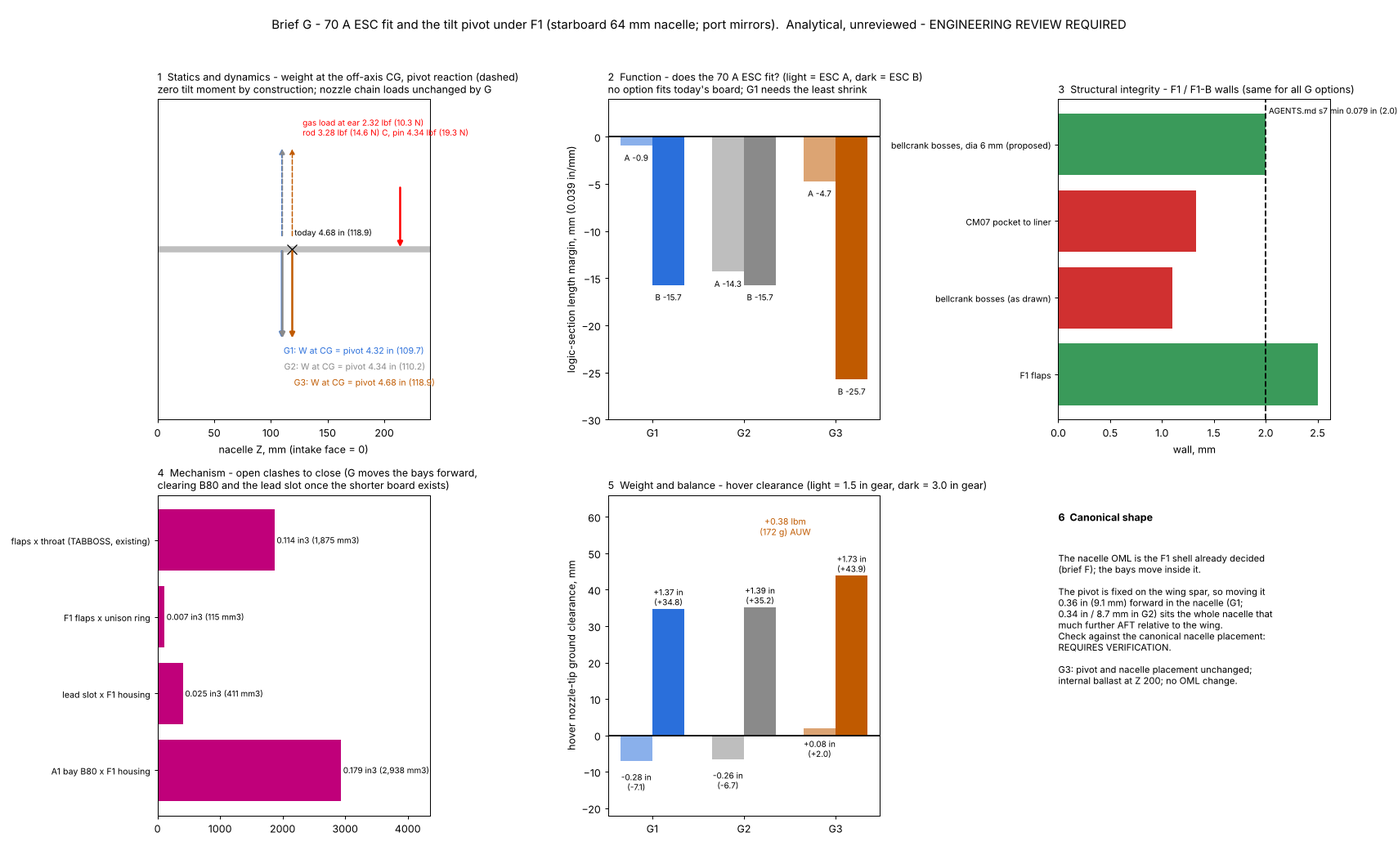
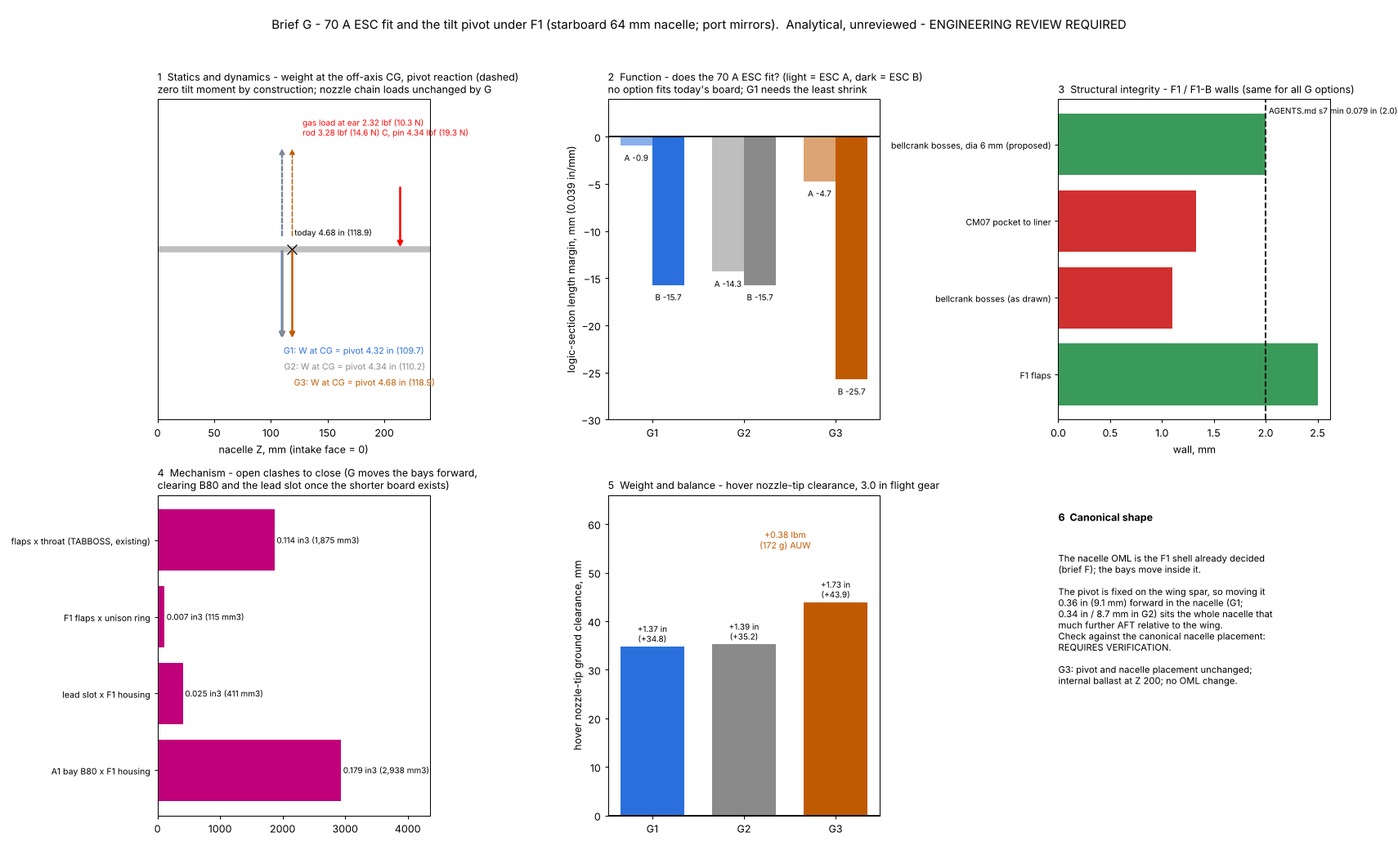
Retire the 1.5 in landing gear; cite the 3.0 in flight gear only
Owner direction 2026-11-22: verify every reference to the 1.5 in gear is
retired and cite the current 3.0 in configuration only. The 3.0 in gear
has been the flight article since 2026-09-06 (LG-31; plan
2026-09-06-001 KTD1; LANDING_GEAR_ANALYSIS sec. 4.8), but live code still
labelled 1.5 in "ACTIVE default".

Live code -> 3.0 in only:
- nacelle_mass_cg.GROUND_PLANES holds one plane, GEAR_3IN (hull_datums
  GROUND_Z_3IN); nacelle_mass_cg_64 drops clear_1p5in;
  nozzle64_hinge_root_brief drops clear_1p5_*; brief_g_esc_pivot_fig
  panel 5 shows 3.0 in only. Brief F and G figures regenerated.
- middle_layout_fit checks against lg_r6_3_0in_hull_legs.stl.
- da Vinci Jr proto batch J slices the 3.0 in leg (assembled corner at
  0.80 to fit the 150 mm bed; leg frames at 1.0).
- sls_print_orientation keeps the retired 1.5 in leg frame entry (the STL
  still exists) relabelled RETIRED, not a print article; output unchanged.

Docs: Theme N briefs F/G/H, NACELLE_64MM_VERIFICATION and the
wings-nacelles WBS cite 3.0 in only; LANDING_GEAR_ANALYSIS's STL table
marks the 1.5 in meshes RETIRED and the 3.0 in as the flight article.
Historical records (dated WBS entries, pod SCAD and hollow-tool comments)
are labelled retired; dated plans and CLAUDE-MEMORY keep their history.

New finding, recorded as WBS LG-RETIRE-1P5-REFS: against the real 3.0 in
legs, middle_layout_fit shows harness envelopes fouling the legs (ESC E1
2,757, E3 662, E34 1,565, tilt feed T1 971 mm3, each side) that the
[…]

Changed region(s): [[0.4029, 0.6493, 0.6199, 0.9894], [0.5579, 0.5565, 0.7129, 0.5874], [0.5269, 0.6184, 0.5889, 0.6493]]

diff --git a/tools/brief_g_esc_pivot_fig.py b/tools/brief_g_esc_pivot_fig.py
@@ -66,7 +66,7 @@ DATA: dict[str, Any] = {
         ),
     },
     "tip_open_f1": 221.82,  # open-nozzle tip station, F1 (arm1 + cg1)
-    "clr_ref": dict(pivot=111.68, c15=-5.19, c30=36.71),
+    "clr_ref": dict(pivot=111.68, c30=36.71),  # 3.0 in flight gear (hull_datums GROUND_Z_3IN)
     "walls": [
         ("F1 flaps", 2.5),
         ("bellcrank bosses (as drawn)", 1.1),
@@ -84,9 +84,10 @@ DATA: dict[str, Any] = {
 
 
 def clearance(pivot):
-    """Hover tip clearance (mm) for both gear heights; the arm grows 1:1 as the pivot moves fwd."""
+    """Hover tip clearance (mm) on the 3.0 in flight gear; the arm grows 1:1 as the pivot moves
+    forward."""
     d = DATA["clr_ref"]["pivot"] - pivot
-    return DATA["clr_ref"]["c15"] - d, DATA["clr_ref"]["c30"] - d
+    return DATA["clr_ref"]["c30"] - d
 
 
 def figure(out: Path) -> None:
@@ -188,18 +189,9 @@ def figure(out: Path) -> None:
     # 5 Weight and balance: pivot, ballast, hover clearance
     a = ax[1, 1]
     for i, n in enumerate(names):
-        c15, c30 = clearance(o[n]["pivot"])
-        a.bar(i - w / 2, c15, w, color=col[n], alpha=0.55)
-        a.bar(i + w / 2, c30, w, color=col[n])
-        a.text(
-            i - w / 2,
-            c15 - 3,
-            f"{c15 / IN:+.2f} in\n({c15:+.1f})",
-            ha="center",
-            fontsize=8,
-            va="top",
-        )
-        a.text(i + w / 2, c30 + 1, f"{c30 / IN:+.2f} in\n({c30:+.1f})", ha="center", fontsize=8)
+        c30 = clearance(o[n]["pivot"])
+        a.bar(i, c30, 2 * w, color=col[n])
+        a.text(i, c30 + 1, f"{c30 / IN:+.2f} in\n({c30:+.1f})", ha="center", fontsize=8)
         if o[n]["ballast"]:
             a.text(
                 i - 0.55,
@@ -211,10 +203,10 @@ def figure(out: Path) -> None:
             )
     a.axhline(0, color="k")
     a.set_xticks(range(3), names)
-    a.set_ylim(-22, 66)
+    a.set_ylim(0, 66)
     a.set_ylabel("hover nozzle-tip ground clearance, mm")
     a.set_title(
-        "5  Weight and balance - hover clearance (light = 1.5 in gear, dark = 3.0 in gear)",
+        "5  Weight and balance - hover nozzle-tip clearance, 3.0 in flight gear",
         loc="left",
         fontsize=10,
     )

diff --git a/tools/nozzle64_hinge_root_brief.py b/tools/nozzle64_hinge_root_brief.py
@@ -424,8 +424,7 @@ def compute() -> dict[str, Any]:
     base = nac64.base
     arm0 = res["tip_z_open"]["F0"] - Z0
     arm1 = res["tip_z_open"]["F1"] - Z1
-    g15 = base.GROUND_PLANES["1.5 in gear (ACTIVE default)"]
-    g30 = base.GROUND_PLANES["3.0 in gear (kept, not wired in)"]
+    g30 = base.GROUND_PLANES[base.GEAR_3IN]  # 3.0 in flight gear, the only configuration
     res["weight"] = {
         "rows": deltas,
         "M0_g": M0,
@@ -438,8 +437,6 @@ def compute() -> dict[str, Any]:
         "auw_delta_g": 2 * dM,
         "arm0": arm0,
         "arm1": arm1,
-        "clear_1p5_F0": base.WING_SPAR_HULL_Z - arm0 - g15,
-        "clear_1p5_F1": base.WING_SPAR_HULL_Z - arm1 - g15,
         "clear_3_F0": base.WING_SPAR_HULL_Z - arm0 - g30,
         "clear_3_F1": base.WING_SPAR_HULL_Z - arm1 - g30,
         "ballast_to_hold_pivot_g_at_z200": M1 * (Z0 - Z1) / (200.0 - Z0),
@@ -727,8 +724,7 @@ def figure(res: dict[str, Any]) -> Path:
         f"mm); holding it "
         f"needs {wb['ballast_to_hold_pivot_g_at_z200']:.0f} g ballast at Z 200 per nacelle\n"
         f"hover reach pivot -> open tip {wb['arm0']:.1f} -> {wb['arm1']:.1f} mm; clearance, "
-        f"1.5 in gear "
-        f"{i2(wb['clear_1p5_F0']):+.2f} -> {i2(wb['clear_1p5_F1']):+.2f} in, 3.0 in gear "
+        f"3.0 in gear "
         f"{i2(wb['clear_3_F0']):+.2f} -> {i2(wb['clear_3_F1']):+.2f} in",
         transform=ax.transAxes,
         fontsize=7,
@@ -864,8 +860,8 @@ def main(argv: list[str] | None = None) -> int:
     print(
         f"mass {w['M0_g']:.1f} -> {w['M1_g']:.1f} g, CG {w['cg0']:.2f} -> {w['cg1']:.2f}, "
         f"AUW {w['auw_delta_g']:+.0f} g,"
-        f" arm {w['arm0']:.1f} -> {w['arm1']:.1f}, clear 1.5 {w['clear_1p5_F0']:.1f} -> "
-        f"{w['clear_1p5_F1']:.1f} mm,"
+        f" arm {w['arm0']:.1f} -> {w['arm1']:.1f}, clear 3.0 in gear {w['clear_3_F0']:.1f} -> "
+        f"{w['clear_3_F1']:.1f} mm,"
         f" ballast {w['ballast_to_hold_pivot_g_at_z200']:.0f} g"
     )
     for r in w["rows"]:

diff --git a/tools/nacelle_mass_cg_64.py b/tools/nacelle_mass_cg_64.py
@@ -223,10 +223,7 @@ def roll_up(pod_stl: Path) -> dict:
     tip = base.WING_SPAR_HULL_Z - arm
     return {"rows": rows, "total_g": total, "cg_z": cg,
             "pivot_z": round(cg, 1), "arm": arm, "tip_hull_z": tip,
-            "clear_3in": tip - base.GROUND_PLANES[
-                "3.0 in gear (kept, not wired in)"],
-            "clear_1p5in": tip - base.GROUND_PLANES[
-                "1.5 in gear (ACTIVE default)"]}
+            "clear_3in": tip - base.GROUND_PLANES[base.GEAR_3IN]}
 
 
 def main(argv: list[str] | None = None) -> int:
@@ -259,9 +256,7 @@ def main(argv: list[str] | None = None) -> int:
           f"{res['cg_z']:.2f}, residual {delta:+.2f} mm -> {state}")
     print(f"Hover: arm {res['arm']:.1f} mm, nozzle tip at hull Z "
           f"{res['tip_hull_z']:+.1f} mm; clearance 3.0 in gear "
-          f"{res['clear_3in'] / 25.4:+.2f} in ({res['clear_3in']:+.1f} mm), "
-          f"1.5 in gear {res['clear_1p5in'] / 25.4:+.2f} in "
-          f"({res['clear_1p5in']:+.1f} mm)")
+          f"{res['clear_3in'] / 25.4:+.2f} in ({res['clear_3in']:+.1f} mm)")
     return 0 if res["clear_3in"] > 0 else 2
 
 

diff --git a/airframe/gcode/davinci-jr-proto/cura/slice_all_batches_cura.py b/airframe/gcode/davinci-jr-proto/cura/slice_all_batches_cura.py
@@ -132,10 +132,14 @@ PARTS = [
      "fuselage/wing_root_flange_port.stl", 1.0, 15, False, ""),
     ("J", "wing_root_flange_stbd",
      "fuselage/wing_root_flange_stbd.stl", 1.0, 15, False, ""),
-    ("J", "lg_r6_1_5in_leg_assembled",
-     "fuselage/landing-gear/lg_r6_1_5in_leg_assembled.stl", 1.0, 25, False, ""),
-    ("J", "lg_r6_1_5in_leg_frame",
-     "fuselage/landing-gear/lg_r6_1_5in_leg_frame.stl", 1.0, 25, False, ""),
+    # 3.0 in flight gear only (the 1.5 in variant is retired, LG-31).  The assembled corner is
+    # 185 mm long, so it prints at 0.80 on the 150 mm bed; the leg frames fit at 1.0.
+    ("J", "lg_r6_3_0in_leg_assembled",
+     "fuselage/landing-gear/lg_r6_3_0in_leg_assembled.stl", 0.80, 25, False, ""),
+    ("J", "lg_r6_3_0in_leg_frame",
+     "fuselage/landing-gear/lg_r6_3_0in_leg_frame.stl", 1.0, 25, False, ""),
+    ("J", "lg_r6_3_0in_leg_frame_fore",
+     "fuselage/landing-gear/lg_r6_3_0in_leg_frame_fore.stl", 1.0, 25, False, ""),
     ("J", "lg_r6_common_bay",
      "fuselage/landing-gear/lg_r6_common_bay.stl", 1.0, 25, False, ""),
     ("J", "lg_r6_common_foot",

diff --git a/tools/nacelle_mass_cg.py b/tools/nacelle_mass_cg.py
@@ -216,11 +216,12 @@ def tip_reach(flap_len: float) -> float:
 sys.path.insert(0, str(Path(__file__).resolve().parent))
 import hull_datums as hd  # noqa: E402  aircraft datum R2 (2026-10-19)
 WING_SPAR_HULL_Z = hd.SPAR_Z  # [mm] built spar height (R1 66.851)
-# Ground plane per gear variant, aircraft datum: the 3.0 in flight gear IS the
-# datum ground (Z 0); the retired 1.5 in gear stands the belly 41.9 mm lower.
-# (Keys kept for the scripts that index them.)
-GROUND_PLANES = {"1.5 in gear (ACTIVE default)": hd.BELLY_Z - 38.1,
-                 "3.0 in gear (kept, not wired in)": hd.GROUND_Z_3IN}
+# Ground plane, aircraft datum: the 3.0 in flight gear IS the datum ground (Z 0)
+# (tools/hull_datums.py GROUND_Z_3IN; docs/LANDING_GEAR_ANALYSIS.md sec. 4.8 retired the
+# compact variant from the flight article).  The 3.0 in gear is the only configuration
+# carried; the retired variant is not evaluated.
+GEAR_3IN = "3.0 in gear (flight article)"
+GROUND_PLANES = {GEAR_3IN: hd.GROUND_Z_3IN}
 
 #: Deleted at Rev T4, kept so the delta is legible rather than implied.
 DELETED = [

diff --git a/tools/nacelle_hollow_profile.py b/tools/nacelle_hollow_profile.py
@@ -27,7 +27,9 @@ ground clearance."
 The tilt pivot sits at the rotating assembly's CG, so removing mass FORWARD of
 the CG moves the pivot AFT, which shortens the pivot-to-nozzle-tip arm one for
 one and lifts the nozzle in hover.  With the pod solid, that tip sits 10.5 mm
-BELOW the ground plane on the active 1.5 in gear.
+BELOW the ground plane on the then-active 1.5 in gear (HISTORY, 2026-08-31: that gear
+was retired 2026-09-06, LG-31 / LANDING_GEAR_ANALYSIS.md sec. 4.8; the 3.0 in flight gear is the
+only configuration, and the clearances below are the historical 1.5 in figures).
 
 Measured, the trade is:
 

diff --git a/tools/middle_layout_fit.py b/tools/middle_layout_fit.py
@@ -75,7 +75,7 @@ MIDDLE_SHELL = os.path.join(REPO, "airframe", "stls", "fuselage", "middle_shell2
 FLANGE_PORT = os.path.join(REPO, "airframe", "stls", "fuselage", "wing_root_flange_port.stl")
 FLANGE_STBD = os.path.join(REPO, "airframe", "stls", "fuselage", "wing_root_flange_stbd.stl")
 LG_LEGS = os.path.join(
-    REPO, "airframe", "stls", "fuselage", "landing-gear", "lg_r6_1_5in_hull_legs.stl"
+    REPO, "airframe", "stls", "fuselage", "landing-gear", "lg_r6_3_0in_hull_legs.stl"
 )
 STATIC_GAP = 2.0  # static part against the fixed hull (cargo_layout_fit convention)
 

diff --git a/tools/sls_print_orientation.py b/tools/sls_print_orientation.py
@@ -332,7 +332,7 @@ ORIENT = {
         'H'),
     'fuselage/landing-gear/lg_r6_1_5in_leg_frame.stl': (
         'Z', 'PA CF',
-        'bench/handling article',
+        'RETIRED 1.5 in variant (LG-31) -- not a flight or print article',
         'R-PLATE',
         'H'),
     'fuselage/landing-gear/lg_r6_common_foot.stl': (

diff --git a/docs/THEME_N_DECISION_BRIEFS.md b/docs/THEME_N_DECISION_BRIEFS.md
@@ -264,7 +264,7 @@ plain liner tube (Z 136–196 mm, no structure) is trimmed to the housing face.
 | **Function** | Panel 2. Exit 75 % / 105 % on the flow surface (met, load study rev 2). Convergence half-angle 12.9° closed. | Exit 75 % / 105 % met by construction; gentler convergence (9.9° closed). The motor-2 can tail (Z 176.9 mm) sits 0.07 in (1.6 mm) aft of the hinge, inside the petal zone: the pod's R11 fit-gate assert (`EDF2_Z_EXIT <= NOZZLE_RING_Z`) has to be restated, since the can stays 0.69 in (17.6 mm) inside the petals' inner face. Nozzle still slides off aft under the dorsal cowl tongue (housing OD 3.35 in (85.2 mm) under a tongue of outer radius 1.85–1.89 in (47–48 mm)). |
 | **Structural integrity** | Today's ring + housing stack is 0.417 in (10.6 mm) radial outside the bore. | Panel 3. At the new station the canonical skin leaves **0.298 in (7.6 mm)** from the bore to the outer mould line at its tightest (r 1.558 in / 39.58 mm, az 345°). Today's stack does not fit inside it. With the 0.079 in (2.0 mm) minimum walls (`AGENTS.md` §7) no stack fits fully inside canon there; a compact ring and housing reduces the proud band but does not remove it (estimate, not modelled). Cam pin load × 1.67: pin bearing in PA CF already "requires verification". |
 | **Mechanism and component interactions** | Clash check (2026-11-21, 25 stroke points): no hard clash; the CM07 issues sit at the servo, not the nozzle. | Panel 4. **A1 bay B80 overlaps the new housing zone by 0.248 in³ (4,060 mm³)** and its aft end touches the petals (0.07 mm): B80 (Z 112–182 mm) would have to end near Z 158 mm, 46 of its 70 mm board run, or be re-sited (re-run the OD-3 optimiser with the new aft limit). A1 bay A324 ends 0.40 mm from the housing; the CM07 at today's position 0.48 mm from it (no room for a wall; the servo moves forward about 2 mm, which the A1 layout allows). The motor-2 lead slot crosses the housing (392 mm³) and is re-routed. Brief E's new home for cover screw 1 (Z 165 mm) lands in the ring zone and is re-sited. The ring ear moves to Z ≈ 6.47 in (164.3 mm), about 0.18 in (4.5 mm) aft of the servo: the drive becomes a short direct link (no long rod), re-solved from scratch; the L1 near-toggle result (641 N per N·m at closed) would give ×1.60 over the 1.5 factor against F1's 401 if a similar profile is reached. |
-| **Weight and balance** | Tilting group 2.453 lbm (1,112.5 g), CG and pivot Z 4.68 in (118.9 mm), converged. Hover: pivot to open tip 5.17 in (131.2 mm); clearance −1.04 in (−26.3 mm) on the 1.5 in gear, +0.61 in (+15.6 mm) on the 3.0 in gear. | Panel 5. **−0.175 lbm (−79.5 g) per nacelle, −0.350 lbm (−159 g) AUW**: pod skin aft of the root, the housing pocket and 1.42 in (36 mm) of cartridge liner go; flaps +6.4 g. Tilting (off-axis) CG moves **−0.283 in (−7.2 mm)** *(corrected 2026-11-22 from −6.8 mm: off-axis mass basis)*: PIVOT_Z re-converges forward (or 0.190 lbm (86 g) of ballast at Z 200 mm per nacelle holds it). Hover reach 4.34 in (110.1 mm): clearance −0.20 in (−5.2 mm) on the 1.5 in gear, +1.45 in (+36.7 mm) on the 3.0 in gear. Ledger picks it up at the re-bake. |
+| **Weight and balance** | Tilting group 2.453 lbm (1,112.5 g), CG and pivot Z 4.68 in (118.9 mm), converged. Hover: pivot to open tip 5.17 in (131.2 mm); clearance +0.61 in (+15.6 mm) on the 3.0 in flight gear. | Panel 5. **−0.175 lbm (−79.5 g) per nacelle, −0.350 lbm (−159 g) AUW**: pod skin aft of the root, the housing pocket and 1.42 in (36 mm) of cartridge liner go; flaps +6.4 g. Tilting (off-axis) CG moves **−0.283 in (−7.2 mm)** *(corrected 2026-11-22 from −6.8 mm: off-axis mass basis)*: PIVOT_Z re-converges forward (or 0.190 lbm (86 g) of ballast at Z 200 mm per nacelle holds it). Hover reach 4.34 in (110.1 mm): clearance +1.45 in (+36.7 mm) on the 3.0 in flight gear. Ledger picks it up at the re-bake. |
 | **Canonical shape** | Panel 6. Housing proud at 72 of 72 azimuths, up to 0.278 in (7.06 mm); petals 1.14 in (29.0 mm) past the canonical tail. | Hinge on the canonical root; open petals end 0.03 in (0.7 mm) past the canonical tail. Housing proud at 26 of 72 azimuths, up to 0.119 in (3.02 mm), around az 345° and the ventral side (less with a compact stack). The axisymmetric petals sit inside the non-round canonical petal skin; matching it exactly would need a shaped outer fairing on each flap (not evaluated). |
 
 ### F1-B — the bellcrank drive for F1 (2026-11-22)
@@ -351,9 +351,8 @@ housing and cannot grow forward.
 
 - **Size:** the pivot moves −0.360 in (−9.1 mm) from today: F1's −7.18 mm plus −1.95 mm from the
   ESCs moving forward.
-- **Hover:** reach from the pivot to the open tip is 4.413 in (112.1 mm). Ground clearance is
-  −0.28 in (−7.1 mm) on the 1.5 in gear and +1.37 in (+34.8 mm) on the 3.0 in gear (today −1.04 /
-  +0.61 in).
+- **Hover:** reach from the pivot to the open tip is 4.413 in (112.1 mm). Ground clearance on the
+  3.0 in flight gear is +1.37 in (+34.8 mm) (today +0.61 in).
 - **What moves with it:** the trunnion, the cavity trunnion bore and the nav channel end, all
   through the single-sourced PIVOT_Z (PIVOT-RC procedure and a hull re-bake).
 - **Checks to re-run:** the tilt-sweep clearances and the OD-17 fairing, with the nacelle sitting
@@ -430,7 +429,7 @@ unreviewed.*
 | **Function** (panel 2): ESC logic-section length margin | ESC A −0.94 mm, ESC B −15.7 mm. Per ESC (per face): A +81 mm², B −29 mm² (1.0 % short). This is a partitioning fix. Hotter ESC 164.8 °F (73.8 °C). | ESC A −14.3 mm, ESC B −15.7 mm. Per ESC −373 / −480 mm². This needs a much smaller board. 173.3 °F (78.5 °C). | ESC A −4.7 mm, ESC B −25.7 mm. The keep-outs stay aft, so the bays are **worse** than in G1. |
 | **Structural integrity** (panel 3) | Same F1 / F1-B parts for all three options. Two walls fail the 0.079 in (2.0 mm) SLS PA CF minimum (`AGENTS.md` §7). The bellcrank bosses are 1.1–1.5 mm: make them Ø6 mm. The CM07 pocket-to-liner wall is 1.33 mm: move the pocket 0.7 mm outboard (OML clearance not yet checked), or carry the liner as the wall and get an engineering waiver. The flaps (2.5 mm) pass. | Same. | Same. Add a ballast pocket. |
 | **Mechanism and component interactions** (panel 4) | B80 × F1 housing (2,938 mm³) and the lead slot × housing (411 mm³) clear once the bays and the slot move forward (task NAC-64-NOZ-ROOT-ESC). Still open for every option: F1 flaps × unison ring, 81–115 mm³, so the cam must be re-derived for F1. Also open: flaps × throat, 1,717–1,875 mm³ (the existing TABBOSS item). The trunnion, cavity bore and nav channel move with PIVOT_Z, so re-run the tilt sweep (−5…+135°). | Same; the bays move less. | Keep-outs unchanged, but the ballast pocket at Z 200 must clear the CM07, the bellcrank and the motor-2 leads (not checked). |
-| **Weight and balance** (panel 5) | −0.175 lbm (−79.5 g) per nacelle and −0.350 lbm (−159 g) AUW from F1. The ESCs moving forward add no mass. Pivot −9.1 mm. Hover reach 4.41 in (112.1 mm). Clearance −0.28 in (−7.1 mm) on the 1.5 in gear and +1.37 in (+34.8 mm) on the 3.0 in gear (today −1.04 / +0.61 in). | Pivot −8.7 mm; clearance −0.26 / +1.39 in (−6.7 / +35.2 mm). | Pivot unchanged; clearance +0.08 / +1.73 in (+2.0 / +43.9 mm). F1's AUW saving is all but erased (−159 + 172 = +13 g). |
+| **Weight and balance** (panel 5) | −0.175 lbm (−79.5 g) per nacelle and −0.350 lbm (−159 g) AUW from F1. The ESCs moving forward add no mass. Pivot −9.1 mm. Hover reach 4.41 in (112.1 mm). Clearance on the 3.0 in flight gear +1.37 in (+34.8 mm) (today +0.61 in). | Pivot −8.7 mm; clearance +1.39 in (+35.2 mm). | Pivot unchanged; clearance +1.73 in (+43.9 mm). F1's AUW saving is all but erased (−159 + 172 = +13 g). |
 | **Canonical shape** (panel 6) | Nacelle OML is the F1 shell, unchanged. The pivot is fixed on the wing spar, so the nacelle sits 0.36 in (9.1 mm) further aft relative to the wing; check against the canonical placement (REQUIRES VERIFICATION). The OD-17 fairing re-check is part of this. | 0.34 in (8.7 mm) aft. | No change. |
 
 **The F1 / F1-B checks behind the table.** These are the same for every G option.
@@ -672,3 +671,5 @@ that needs its own study.
   louvres = cooling outlets); figure `docs/figures/h1_esc_housing_canonical.png`.
 - 2026-11-22 — H1 housing generator committed (2.0 mm plate); hollow-cavity fix moves the as-built tilting
   group to 1,144.6 g / CG Z 118.23; H1 pivot Z 109.30 mm.
+- 2026-11-22 — Retired 1.5 in landing gear removed from the briefs' hover-clearance figures and text: the
+  3.0 in flight gear (hull_datums GROUND_Z_3IN; LANDING_GEAR_ANALYSIS §4.8) is the only configuration cited.

diff --git a/airframe/wings-nacelles/WBS.md b/airframe/wings-nacelles/WBS.md
@@ -1491,7 +1491,7 @@ takes the rotating spar out of the airflow path. Geometry and analysis by Claude
     forward-biased hollowing moved `PIVOT_Z` to 113.8 and recovered 7.9 mm of the
     deficit; the in-nacelle harness (22.9 g, all aft of the pivot, never counted
     in any previous roll-up) accounts for part of that. **Remaining: −2.55 mm on
-    the 1.5 in gear, +39.35 mm on the 3.0 in.** Plan 005's already-settled
+    the 1.5 in gear, +39.35 mm on the 3.0 in.** [1.5 in gear RETIRED 2026-09-06 (LG-31; LANDING_GEAR_ANALYSIS.md sec. 4.8) -- the 3.0 in flight gear is the only configuration] Plan 005's already-settled
     40 → 30 mm flap trim is worth 10 mm and takes it to **+6.41 mm** — short of
     the +9.8 mm previously accepted, so the owner should re-confirm the margin
     rather than inherit it. Levers remaining: the flap trim, KD5's deferred
@@ -1945,7 +1945,7 @@ Rev S1b spar-station decision in §1.1.2.1 above.
 **1.456** (root t/c 17.7 %), `THICKNESS_SCALE_TIP` **2.190** (tip t/c 26.6 %),
 `SPAR_Z` **66.85**, `PIVOT_Z` **116.1** (= CG after ESC1 relocates aft),
 canonical offset **−31.1 mm**, hover clearance **+9.8 mm on the 1.5 in gear —
-owner-accepted**. Trunnion ring envelope **measured**: 53.4 mm OD at X 28.
+owner-accepted** [1.5 in gear RETIRED 2026-09-06 (LG-31; LANDING_GEAR_ANALYSIS.md sec. 4.8) -- the 3.0 in flight gear is the only configuration]. Trunnion ring envelope **measured**: 53.4 mm OD at X 28.
 
 The station is a **three-way** trade (airfoil / canonical offset / hover
 clearance), not the two-way one first recorded — the bore rides the camber
@@ -2105,7 +2105,8 @@ hover clearance was measured. Holding 45.15 mm would cost a 40 % t/c tip.
     fills the shell to 178.8 of 185.2, leaving **6.4 mm** for a nozzle that
     measures **58.1 mm** — a variable-area iris cannot fit inside a
     canonical-length nacelle. It is reduced and the residual documented.
-    **OQ1 RESOLVED 2026-08-29 (owner-accepted):** **+9.8 mm on the 1.5 in gear**,
+    **OQ1 RESOLVED 2026-08-29 (owner-accepted):** **+9.8 mm on the 1.5 in gear**
+    [1.5 in gear RETIRED 2026-09-06 (LG-31; LANDING_GEAR_ANALYSIS.md sec. 4.8) -- the 3.0 in flight gear is the only configuration],
     reached by combining the 30 mm flaps with station 28.0 and the ESC1
     relocation. ~1 cm is the accepted margin — downstream geometry changes must
     not silently trade it away. The compact gear stays viable.
@@ -2308,8 +2309,8 @@ hover clearance was measured. Holding 45.15 mm would cost a 40 % t/c tip.
             Z 109.73 (-9.1 mm from today; corrected 2026-11-22 to the off-axis CG basis) ->
             ESC A -0.94 mm, ESC B -15.7 mm (logic, between the trunnion keep-out and the
             housing); per ESC +81 / -29 mm2 per face, so the remaining gap is mostly
-            power/logic partitioning.  Pivot move: hover clearance -7.1 mm (1.5 in gear) /
-            +34.8 mm (3.0 in gear).  **Owner decision 2026-11-22: G1** (brief G,
+            power/logic partitioning.  Pivot move: hover clearance +34.8 mm on the 3.0 in
+            flight gear.  **Owner decision 2026-11-22: G1** (brief G,
             docs/THEME_N_DECISION_BRIEFS.md): bays forward to the Z 47.9 web, pivot to
             Z 109.73.  Issue #23 updated to the G1 per-bay envelope (2026-11-22).
             - [ ] Lead slot re-sited to the ESC-B bay azimuth, ending at the F1 pocket face
@@ -2386,7 +2387,7 @@ hover clearance was measured. Holding 45.15 mm would cost a 40 % t/c tip.
                   (residual: denser grid or local margin at the re-bake).
                   Mass (nacelle_mass_cg_64): tilting group 1,112.5 -> 1,144.6 g per nacelle
                   (+0.071 lbm / +32.1 g; AUW +64 g), CG/pivot 118.86 -> 118.23 mm; hover
-                  clearance 1.5 in gear -30.4 -> -31.0 mm (as-built nozzle).
+                  clearance, 3.0 in flight gear, +11.5 -> +10.9 mm (as-built nozzle).
             - [ ] The published `nacelle_{stbd,port}_64mm.stl` are still the PRE-FIX meshes
                   (render of the pre-fix source = published volume, 387,682 mm3); re-export
                   with NAC-64-CANON-01.b once NAC-64-PIVOT-RC converges, as planned.  The
@@ -2933,7 +2934,7 @@ hover clearance was measured. Holding 45.15 mm would cost a 40 % t/c tip.
     assembly (pre-existing, found 2026-08-29). The rotating assembly reaches
     nacelle-local Z **221.3** (the iris seats at 166.25 and runs 55.1 beyond —
     36.1 mm proud of the 185.2 mm shell). In hover the tip swings to hull Z
-    **−41.39** against a **−38.1 mm** ground plane on the 1.5 in gear that
+    **−41.39** against a **−38.1 mm** ground plane on the 1.5 in gear [1.5 in gear RETIRED 2026-09-06 (LG-31; LANDING_GEAR_ANALYSIS.md sec. 4.8) -- the 3.0 in flight gear is the only configuration] that
     `serenity_assembly.py` L505-518 calls "the ACTIVE (compact, default)
     variant" — a **3.3 mm strike on every vertical takeoff and landing**. The
     3.0 in gear clears by +38.6 mm. Either make the 3.0 in gear mandatory rather

diff --git a/docs/LANDING_GEAR_ANALYSIS.md b/docs/LANDING_GEAR_ANALYSIS.md
@@ -932,15 +932,15 @@ under `lg_r6_common_*`:
 | `lg_r6_common_foot.stl` | Tri-pad TPU foot, sole-down — shared, both variants |
 | `lg_r6_common_spring_wire_nominal.stl` / `_deformed.stl` | Spring wire, nominal / at elastic-limit bow — shared |
 | `lg_r6_common_ductile_wire_nominal.stl` / `_deformed.stl` | Ductile wire, nominal / fired (19.2 mm bow, field-inspection reference) — shared |
-| `lg_r6_1_5in_leg_frame.stl` | One-piece leg frame, **1.5in default**, print orientation |
+| `lg_r6_1_5in_leg_frame.stl` | One-piece leg frame, 1.5in variant — **RETIRED** (§4.8, LG-31; not a flight or print article) |
 | `lg_r6_1_5in_leg_assembled.stl` | One corner: bay + 1.5in leg + 4 wires, nominal stance |
 | `lg_r6_1_5in_leg_deformed.stl` | Same corner at full 30.9° flexion, fired wires |
-| `lg_r6_1_5in_hull_legs.stl` | All 4 corners, 1.5in variant, at §2.2 hull-frame stations (consumed by `serenity_assembly.py` — **active default**) |
+| `lg_r6_1_5in_hull_legs.stl` | All 4 corners, 1.5in variant — **RETIRED** (§4.8, LG-31); not consumed by any tool |
 | `lg_r6_1_5in_hull_stance.stl` | Same + ground plane + cargo-belly ghost (review view) |
-| `lg_r6_3_0in_leg_frame.stl` | One-piece leg frame, **3.0in extended**, print orientation |
+| `lg_r6_3_0in_leg_frame.stl` | One-piece leg frame, **3.0in — the flight article**, print orientation |
 | `lg_r6_3_0in_leg_assembled.stl` | One corner: bay + 3.0in leg + 4 wires, nominal stance |
 | `lg_r6_3_0in_leg_deformed.stl` | Same corner at full 30.9° flexion, fired wires |
-| `lg_r6_3_0in_hull_legs.stl` | All 4 corners, 3.0in variant, at §2.2 hull-frame stations (not wired into the default assembly) |
+| `lg_r6_3_0in_hull_legs.stl` | All 4 corners, **3.0in flight gear**, at §2.2 hull-frame stations (the active assembly variant, `serenity_assembly.py`) |
 | `lg_r6_3_0in_hull_stance.stl` | Same + ground plane + cargo-belly ghost (review view) |
 
 The original undifferentiated `canonical_leg_r6.scad` (2026-07-21,

diff --git a/airframe/landing-gear/WBS.md b/airframe/landing-gear/WBS.md
@@ -872,3 +872,18 @@ Derivation: `docs/LANDING_GEAR_ANALYSIS.md` §4.8. Gate:
     107.5 and the measured 107.45 (`tools/nacelle_mass_cg.py`). Not edited from
     the landing-gear side — the file's nacelle rows are owned elsewhere.
     Documentation-integrity item, no geometry change expected.
+- [ ] **LG-RETIRE-1P5-REFS — retire the 1.5 in gear from live tools (2026-11-22, owner direction:
+    cite the current 3.0 in configuration only).** Done: `tools/nacelle_mass_cg.py`
+    GROUND_PLANES carries only the 3.0 in flight gear (`GEAR_3IN`); `nacelle_mass_cg_64.py`,
+    `nozzle64_hinge_root_brief.py`, `brief_g_esc_pivot_fig.py` (+ figures), the Theme N briefs,
+    `docs/NACELLE_64MM_VERIFICATION.md` and the wings-nacelles WBS cite 3.0 in only;
+    `tools/middle_layout_fit.py` now checks against `lg_r6_3_0in_hull_legs.stl`; the da Vinci Jr
+    proto batch J slices the 3.0 in leg (assembled corner at 0.80 for the 150 mm bed);
+    `docs/LANDING_GEAR_ANALYSIS.md` STL table marks the 1.5 in meshes RETIRED.  Dated plans,
+    `CLAUDE-MEMORY.md` and the retirement analysis itself keep their history (labelled).
+    - [ ] **NEW CLASH, exposed by the switch:** against the 3.0 in flight legs,
+          `tools/middle_layout_fit.py` reports harness envelopes fouling the legs (extra-obstacle
+          volume): ESC E1 flange-face drop 2,757 mm3, ESC E3 under-wheel trough 662 mm3, ESC E34
+          rise 1,565 mm3, tilt feed T1 971 mm3 -- each port and starboard.  Against the retired
+          1.5 in legs these read 0 (E1/E3 already failed the 2.0 mm shell gap; E34 and T1 are
+          new).  Re-route these runs around the 3.0 in legs, or confirm the legs mesh station.
